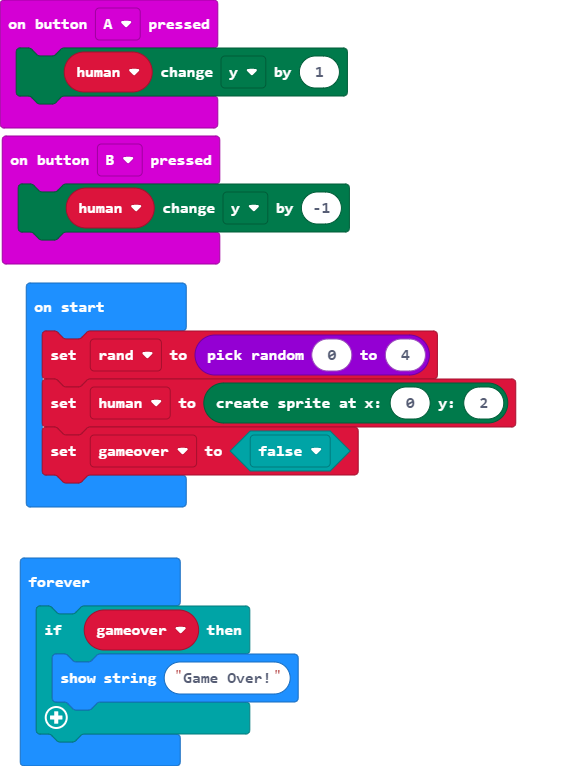
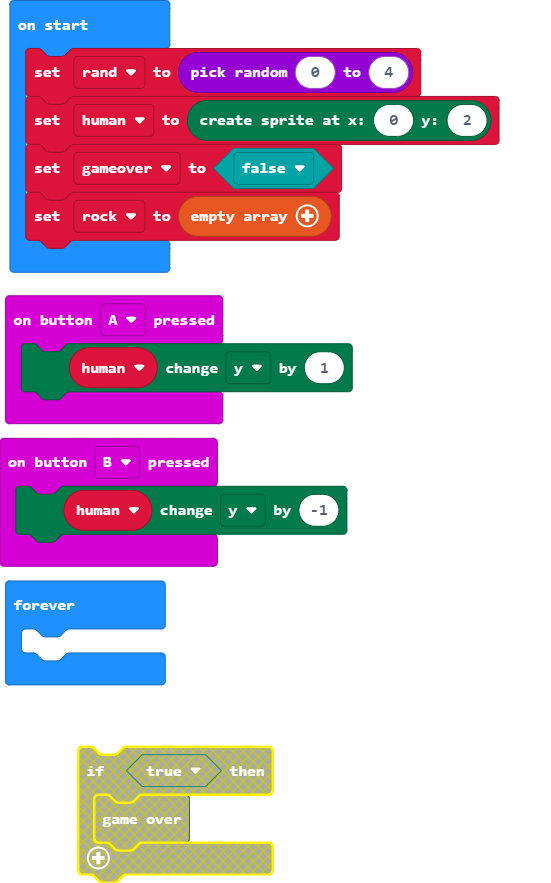
redo gameover (not finish)

diff --git a/main.ts b/main.ts
@@ -8,8 +8,7 @@ let human: game.LedSprite = null
 let rand = randint(0, 4)
 human = game.createSprite(0, 2)
 let gameover = false
+let rock: number[] = []
 basic.forever(function () {
-    if (gameover) {
-        basic.showString("Game Over!")
-    }
+	
 })
